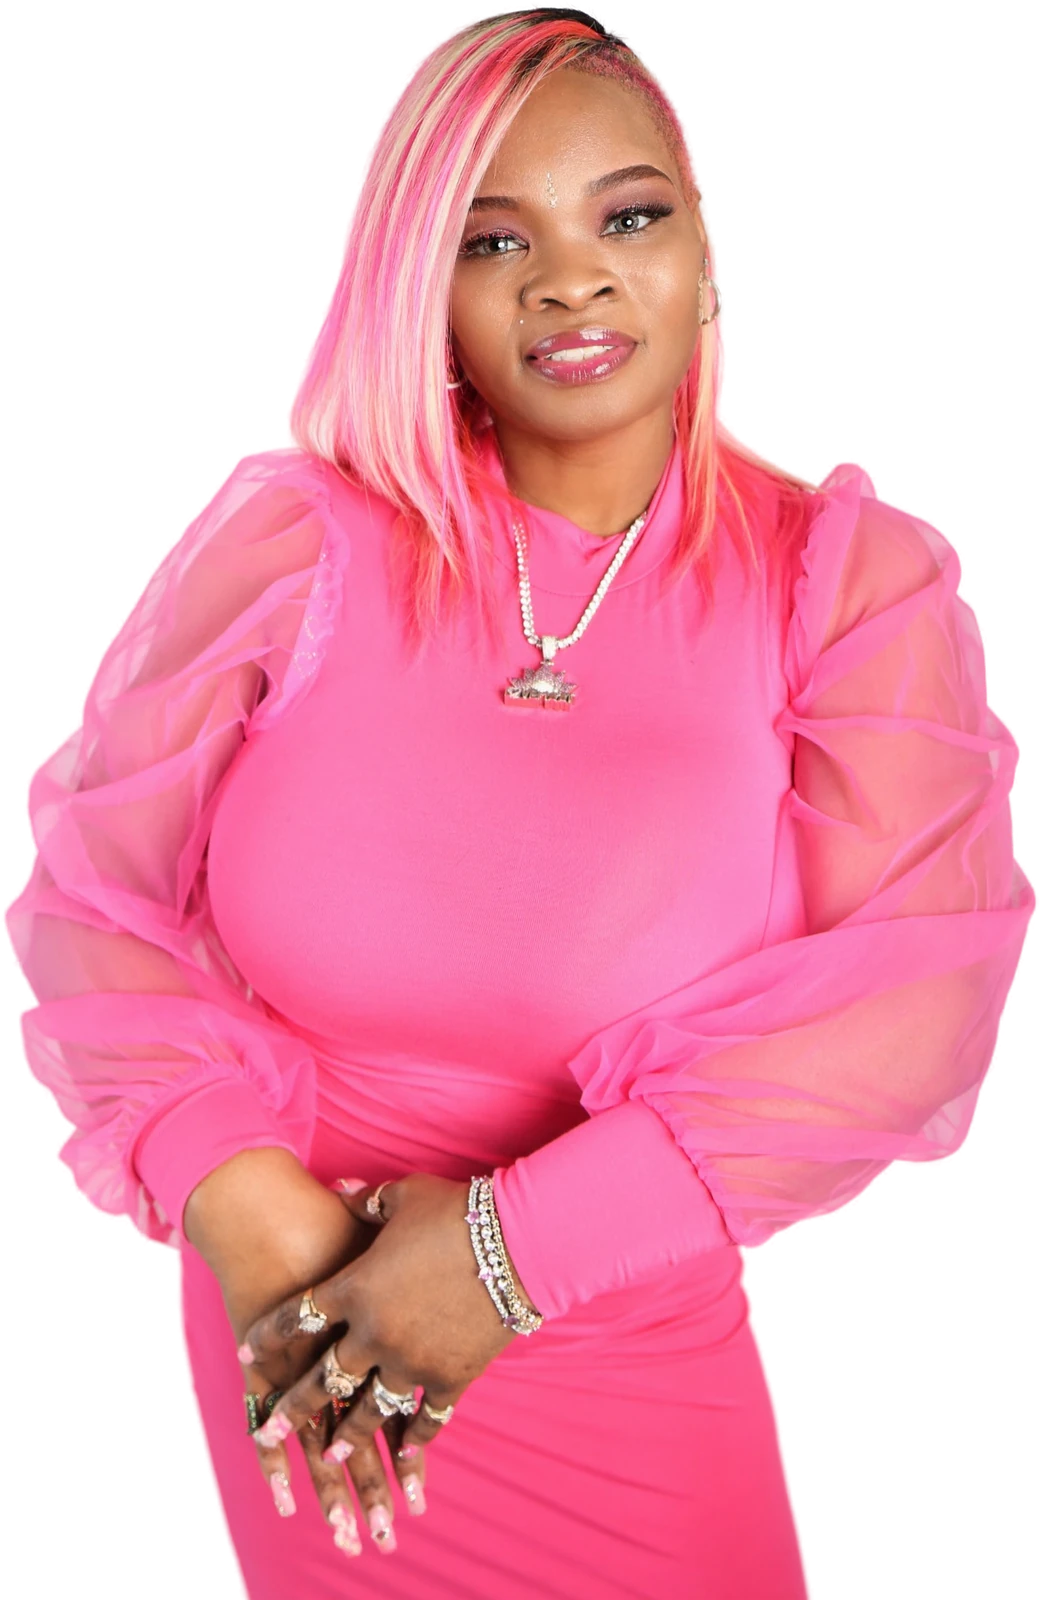
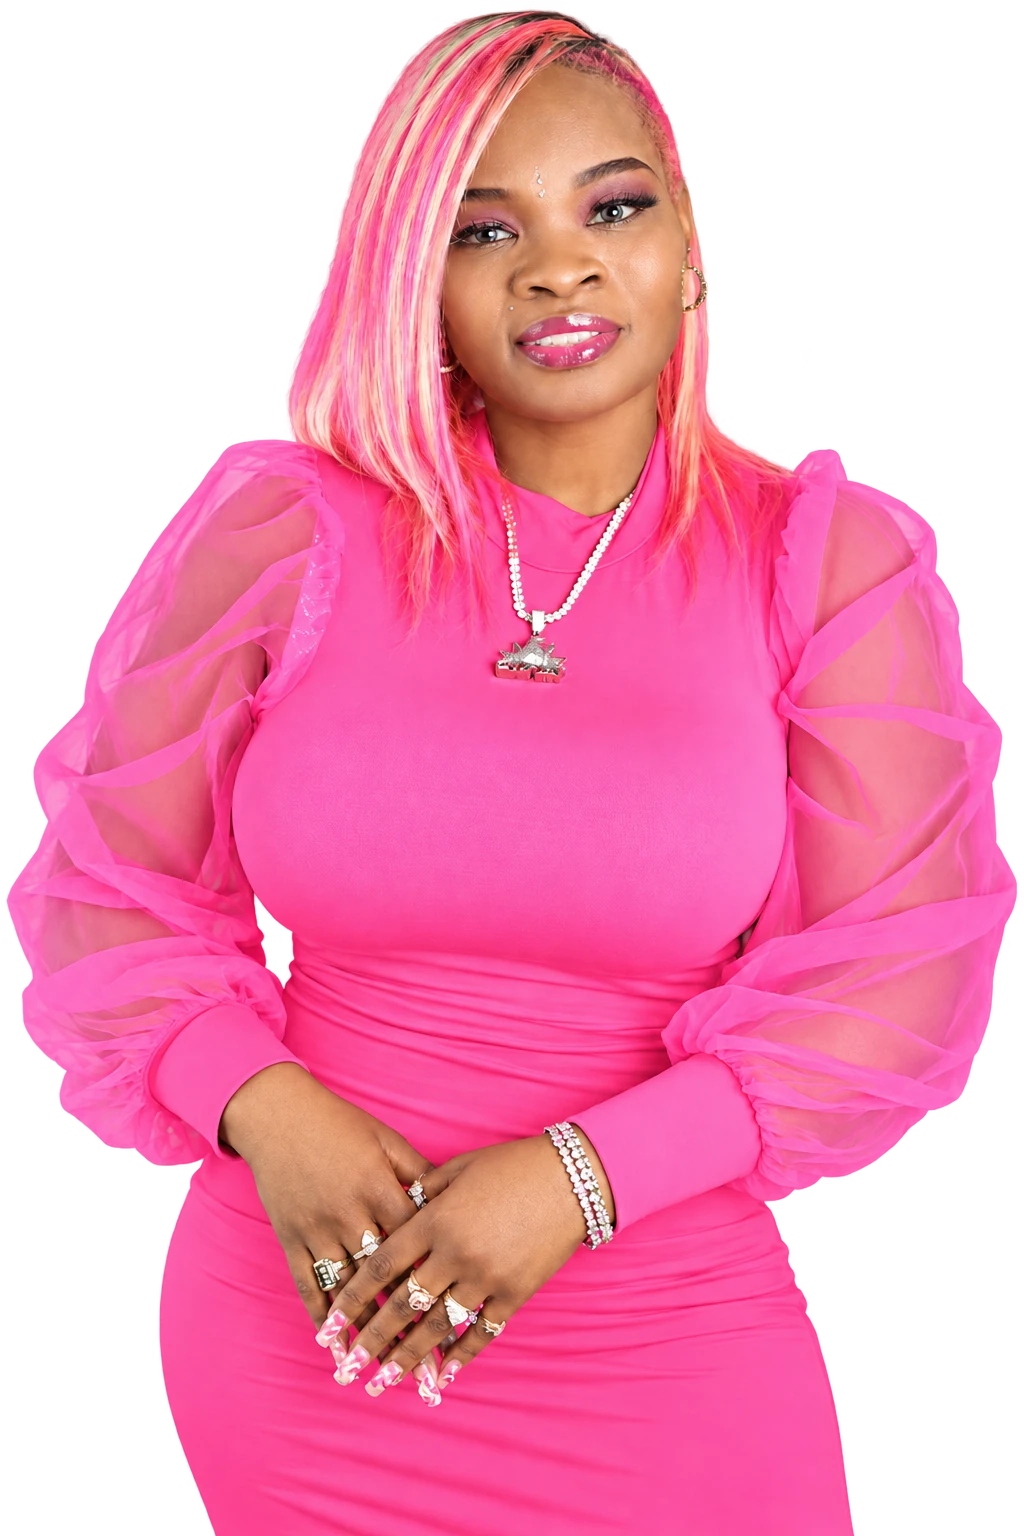
Use the client's transparent portrait, add the workshop photo
- Hero and About now use the supplied transparent PNG: a fuller crop, a
  cleaner mask, and no dark rim. Two earlier versions of the shot are kept
  in brand/ for reference.
- The pain-point row showed a second copy of the hero portrait; it now
  carries a real photo of a room of women mid-session, framed to the
  source's own landscape aspect so the group isn't cropped in half.
- Silhouette re-traced from the new alpha for the neon prototype.
- README notes to ask for a transparent PNG rather than keying one.

diff --git a/prototype-neon.html b/prototype-neon.html
@@ -1,0 +1,143 @@
+<!DOCTYPE html>
+<html lang="en">
+<head>
+<meta charset="utf-8">
+<meta name="viewport" content="width=device-width, initial-scale=1">
+<title>Neon prototypes — Love Ma'at</title>
+<link href="https://fonts.googleapis.com/css2?family=Plus+Jakarta+Sans:wght@400;600;700;800&display=swap" rel="stylesheet">
+<style>
+*{box-sizing:border-box}
+body{margin:0;font-family:"Plus Jakarta Sans",system-ui,sans-serif;background:#0d0b12;color:#fff}
+.row{display:grid;grid-template-columns:repeat(3,1fr);min-height:100vh}
+@media(max-width:1100px){.row{grid-template-columns:1fr}}
+
+.side{position:relative;overflow:hidden;isolation:isolate}
+.tag{position:absolute;top:16px;left:16px;z-index:9;font-size:.62rem;font-weight:800;
+  letter-spacing:.14em;text-transform:uppercase;padding:.45em .9em;border-radius:100px}
+
+.copy{position:absolute;left:clamp(1rem,2.5vw,1.7rem);bottom:clamp(1.2rem,5vh,2.2rem);
+  z-index:8;max-width:15rem}
+.copy h2{margin:0 0 .45rem;font-size:clamp(1.25rem,1.7vw,1.6rem);font-weight:800;
+  line-height:1.08;letter-spacing:-.03em}
+.copy p{margin:0;font-size:.78rem;line-height:1.5}
+
+.stage{position:relative;z-index:4;height:100vh;display:flex;
+  align-items:flex-end;justify-content:flex-end;padding-right:clamp(0rem,1.5vw,1.5rem)}
+/* sized in vh: a percentage height against an auto-height parent is circular */
+.shot{position:relative;display:block;height:74vh;aspect-ratio:1024/1536}
+.shot > img{display:block;height:100%;width:auto;position:relative;z-index:3}
+/* glow on a duplicate layer so we animate opacity, not filter (repaint) */
+.glow{position:absolute;inset:0;z-index:1;pointer-events:none}
+.glow img{display:block;height:100%;width:auto}
+@keyframes breathe{0%,100%{opacity:.55}50%{opacity:1}}
+
+.trace{position:absolute;inset:0;width:100%;height:100%;overflow:visible;
+  pointer-events:none;z-index:5}
+.trace path{fill:none;stroke-linecap:round;stroke-linejoin:round;
+  stroke-dasharray:150 1000;animation:travel 4.2s linear infinite}
+@keyframes travel{from{stroke-dashoffset:1150}to{stroke-dashoffset:0}}
+
+/* ---------- A: light panel, saturated streak ---------- */
+.A{background:linear-gradient(112deg,#FBD2E7 0%,#F6D3F2 38%,#E3D6FD 72%,#D6E0FE 100%)}
+.A .tag{background:#160F1D;color:#fff}
+.A .copy h2{color:#160F1D}.A .copy p{color:#4A4157}.A .copy em{color:#D4399A;font-style:normal}
+.A .glow img{filter:drop-shadow(0 0 6px #E179DC) drop-shadow(0 0 22px #B086FE)
+   drop-shadow(0 0 44px #6DA5FE);animation:breathe 5.5s ease-in-out infinite}
+.A .halo{stroke:#B086FE;stroke-width:22;opacity:.8;filter:blur(11px)}
+.A .core{stroke:#D4399A;stroke-width:5.5}
+.A .hot {stroke:#fff;stroke-width:1.5;opacity:.9}
+
+/* ---------- B: dark panel, true neon ---------- */
+.B{background:
+   radial-gradient(70% 60% at 62% 42%,#3B1E52 0%,transparent 70%),
+   linear-gradient(150deg,#1A0C24 0%,#120A1C 55%,#0B0711 100%)}
+.B .tag{background:#FE70C0;color:#160F1D}
+.B .copy h2{color:#FBF7FD}.B .copy p{color:#B9AEC8}.B .copy em{color:#FE70C0;font-style:normal}
+.B .glow img{filter:drop-shadow(0 0 3px #fff) drop-shadow(0 0 16px #FE70C0)
+   drop-shadow(0 0 46px #B086FE) drop-shadow(0 0 90px #6DA5FE);
+   animation:breathe 5.5s ease-in-out infinite}
+.B .halo{stroke:#FE70C0;stroke-width:22;opacity:.85;filter:blur(13px)}
+.B .core{stroke:#FFC7E8;stroke-width:6}
+.B .hot {stroke:#fff;stroke-width:2}
+
+/* ---------- C: light panel + local plum pool ---------- */
+.C{background:linear-gradient(112deg,#FBD2E7 0%,#F6D3F2 38%,#E3D6FD 72%,#D6E0FE 100%)}
+.C .tag{background:#160F1D;color:#fff}
+.C .copy h2{color:#160F1D}.C .copy p{color:#4A4157}.C .copy em{color:#D4399A;font-style:normal}
+/* multiply darkens the existing wash in-hue instead of pasting a grey blob on
+   top of it; the headline side stays pink because the pool is centred on her */
+.C .pool{position:absolute;z-index:2;pointer-events:none;
+  top:3%;right:-14%;width:100%;height:94%;
+  background:radial-gradient(closest-side,
+     rgba(54,20,76,.94) 0%, rgba(92,42,120,.8) 36%,
+     rgba(148,108,178,.4) 62%, rgba(190,160,210,0) 80%);
+  mix-blend-mode:multiply;filter:blur(8px)}
+.C .glow img{filter:drop-shadow(0 0 3px #fff) drop-shadow(0 0 16px #FE70C0)
+   drop-shadow(0 0 44px #B086FE) drop-shadow(0 0 80px #6DA5FE);
+   animation:breathe 5.5s ease-in-out infinite}
+.C .halo{stroke:#FE70C0;stroke-width:22;opacity:.85;filter:blur(12px)}
+.C .core{stroke:#FFD4EE;stroke-width:5.5}
+.C .hot {stroke:#fff;stroke-width:2}
+
+@media (prefers-reduced-motion:reduce){
+  .trace path,.glow img,.pool{animation:none}
+  .trace path{stroke-dasharray:none;opacity:.5}
+}
+</style>
+</head>
+<body>
+<div class="row">
+  <section class="side A">
+    <span class="tag">A &nbsp;·&nbsp; light panel</span>
+    
+    <div class="copy">
+      <h2>Real Intimacy Starts When You <em>Stop Pretending.</em></h2>
+      <p>Rim bloom reads, but the travelling segment competes with it.</p>
+    </div>
+    <div class="stage"><div class="shot">
+      <div class="glow" aria-hidden="true"><img src="assets/img/maat-portrait.webp" alt=""></div>
+      <img src="assets/img/maat-portrait.webp" alt="Dr. Love Ma'at">
+      <svg class="trace" viewBox="0 0 1024 1536" preserveAspectRatio="xMidYMid meet" aria-hidden="true">
+        <path class="halo" pathLength="1000" d="M170.8,1416.0 L158.0,1340.0 L158.8,1292.0 L167.1,1244.0 L189.6,1176.0 L200.9,1160.0 L156.0,1162.8 L132.0,1146.2 L104.0,1142.2 L59.8,1104.0 L62.9,1068.0 L35.2,1044.0 L22.7,1024.0 L20.7,992.0 L29.0,980.0 L29.9,968.0 L5.3,900.0 L46.0,820.0 L34.8,792.0 L31.6,768.0 L43.4,744.0 L80.8,704.0 L95.1,640.0 L142.8,556.0 L220.0,452.0 L244.0,439.8 L293.6,436.0 L286.7,400.0 L293.8,368.0 L325.7,280.0 L354.7,164.0 L378.5,108.0 L402.0,68.0 L433.4,36.0 L460.0,19.7 L492.0,11.3 L528.0,9.1 L568.0,14.8 L624.0,50.3 L644.9,76.0 L666.2,116.0 L705.4,284.0 L703.2,388.0 L710.8,420.0 L736.7,444.0 L788.0,468.9 L808.0,450.8 L832.0,448.8 L848.0,478.6 L900.0,499.3 L924.8,520.0 L933.0,532.0 L934.9,572.0 L956.8,612.0 L961.3,680.0 L999.4,732.0 L990.4,780.0 L994.2,840.0 L1013.4,876.0 L1014.2,896.0 L994.7,956.0 L985.3,1024.0 L961.6,1088.0 L948.0,1101.8 L928.0,1108.5 L864.0,1164.4 L844.0,1173.6 L820.0,1174.9 L780.0,1197.1 L763.7,1200.0 L785.2,1244.0 L786.2,1260.0 L804.9,1300.0 L804.6,1312.0 L824.8,1368.0"/>
+        <path class="core" pathLength="1000" d="M170.8,1416.0 L158.0,1340.0 L158.8,1292.0 L167.1,1244.0 L189.6,1176.0 L200.9,1160.0 L156.0,1162.8 L132.0,1146.2 L104.0,1142.2 L59.8,1104.0 L62.9,1068.0 L35.2,1044.0 L22.7,1024.0 L20.7,992.0 L29.0,980.0 L29.9,968.0 L5.3,900.0 L46.0,820.0 L34.8,792.0 L31.6,768.0 L43.4,744.0 L80.8,704.0 L95.1,640.0 L142.8,556.0 L220.0,452.0 L244.0,439.8 L293.6,436.0 L286.7,400.0 L293.8,368.0 L325.7,280.0 L354.7,164.0 L378.5,108.0 L402.0,68.0 L433.4,36.0 L460.0,19.7 L492.0,11.3 L528.0,9.1 L568.0,14.8 L624.0,50.3 L644.9,76.0 L666.2,116.0 L705.4,284.0 L703.2,388.0 L710.8,420.0 L736.7,444.0 L788.0,468.9 L808.0,450.8 L832.0,448.8 L848.0,478.6 L900.0,499.3 L924.8,520.0 L933.0,532.0 L934.9,572.0 L956.8,612.0 L961.3,680.0 L999.4,732.0 L990.4,780.0 L994.2,840.0 L1013.4,876.0 L1014.2,896.0 L994.7,956.0 L985.3,1024.0 L961.6,1088.0 L948.0,1101.8 L928.0,1108.5 L864.0,1164.4 L844.0,1173.6 L820.0,1174.9 L780.0,1197.1 L763.7,1200.0 L785.2,1244.0 L786.2,1260.0 L804.9,1300.0 L804.6,1312.0 L824.8,1368.0"/>
+        <path class="hot"  pathLength="1000" d="M170.8,1416.0 L158.0,1340.0 L158.8,1292.0 L167.1,1244.0 L189.6,1176.0 L200.9,1160.0 L156.0,1162.8 L132.0,1146.2 L104.0,1142.2 L59.8,1104.0 L62.9,1068.0 L35.2,1044.0 L22.7,1024.0 L20.7,992.0 L29.0,980.0 L29.9,968.0 L5.3,900.0 L46.0,820.0 L34.8,792.0 L31.6,768.0 L43.4,744.0 L80.8,704.0 L95.1,640.0 L142.8,556.0 L220.0,452.0 L244.0,439.8 L293.6,436.0 L286.7,400.0 L293.8,368.0 L325.7,280.0 L354.7,164.0 L378.5,108.0 L402.0,68.0 L433.4,36.0 L460.0,19.7 L492.0,11.3 L528.0,9.1 L568.0,14.8 L624.0,50.3 L644.9,76.0 L666.2,116.0 L705.4,284.0 L703.2,388.0 L710.8,420.0 L736.7,444.0 L788.0,468.9 L808.0,450.8 L832.0,448.8 L848.0,478.6 L900.0,499.3 L924.8,520.0 L933.0,532.0 L934.9,572.0 L956.8,612.0 L961.3,680.0 L999.4,732.0 L990.4,780.0 L994.2,840.0 L1013.4,876.0 L1014.2,896.0 L994.7,956.0 L985.3,1024.0 L961.6,1088.0 L948.0,1101.8 L928.0,1108.5 L864.0,1164.4 L844.0,1173.6 L820.0,1174.9 L780.0,1197.1 L763.7,1200.0 L785.2,1244.0 L786.2,1260.0 L804.9,1300.0 L804.6,1312.0 L824.8,1368.0"/>
+      </svg>
+    </div></div>
+  </section>
+  <section class="side B">
+    <span class="tag">B &nbsp;·&nbsp; dark panel</span>
+    
+    <div class="copy">
+      <h2>Real Intimacy Starts When You <em>Stop Pretending.</em></h2>
+      <p>Strongest motion. Costs the light, airy top of the page.</p>
+    </div>
+    <div class="stage"><div class="shot">
+      <div class="glow" aria-hidden="true"><img src="assets/img/maat-portrait.webp" alt=""></div>
+      <img src="assets/img/maat-portrait.webp" alt="Dr. Love Ma'at">
+      <svg class="trace" viewBox="0 0 1024 1536" preserveAspectRatio="xMidYMid meet" aria-hidden="true">
+        <path class="halo" pathLength="1000" d="M170.8,1416.0 L158.0,1340.0 L158.8,1292.0 L167.1,1244.0 L189.6,1176.0 L200.9,1160.0 L156.0,1162.8 L132.0,1146.2 L104.0,1142.2 L59.8,1104.0 L62.9,1068.0 L35.2,1044.0 L22.7,1024.0 L20.7,992.0 L29.0,980.0 L29.9,968.0 L5.3,900.0 L46.0,820.0 L34.8,792.0 L31.6,768.0 L43.4,744.0 L80.8,704.0 L95.1,640.0 L142.8,556.0 L220.0,452.0 L244.0,439.8 L293.6,436.0 L286.7,400.0 L293.8,368.0 L325.7,280.0 L354.7,164.0 L378.5,108.0 L402.0,68.0 L433.4,36.0 L460.0,19.7 L492.0,11.3 L528.0,9.1 L568.0,14.8 L624.0,50.3 L644.9,76.0 L666.2,116.0 L705.4,284.0 L703.2,388.0 L710.8,420.0 L736.7,444.0 L788.0,468.9 L808.0,450.8 L832.0,448.8 L848.0,478.6 L900.0,499.3 L924.8,520.0 L933.0,532.0 L934.9,572.0 L956.8,612.0 L961.3,680.0 L999.4,732.0 L990.4,780.0 L994.2,840.0 L1013.4,876.0 L1014.2,896.0 L994.7,956.0 L985.3,1024.0 L961.6,1088.0 L948.0,1101.8 L928.0,1108.5 L864.0,1164.4 L844.0,1173.6 L820.0,1174.9 L780.0,1197.1 L763.7,1200.0 L785.2,1244.0 L786.2,1260.0 L804.9,1300.0 L804.6,1312.0 L824.8,1368.0"/>
+        <path class="core" pathLength="1000" d="M170.8,1416.0 L158.0,1340.0 L158.8,1292.0 L167.1,1244.0 L189.6,1176.0 L200.9,1160.0 L156.0,1162.8 L132.0,1146.2 L104.0,1142.2 L59.8,1104.0 L62.9,1068.0 L35.2,1044.0 L22.7,1024.0 L20.7,992.0 L29.0,980.0 L29.9,968.0 L5.3,900.0 L46.0,820.0 L34.8,792.0 L31.6,768.0 L43.4,744.0 L80.8,704.0 L95.1,640.0 L142.8,556.0 L220.0,452.0 L244.0,439.8 L293.6,436.0 L286.7,400.0 L293.8,368.0 L325.7,280.0 L354.7,164.0 L378.5,108.0 L402.0,68.0 L433.4,36.0 L460.0,19.7 L492.0,11.3 L528.0,9.1 L568.0,14.8 L624.0,50.3 L644.9,76.0 L666.2,116.0 L705.4,284.0 L703.2,388.0 L710.8,420.0 L736.7,444.0 L788.0,468.9 L808.0,450.8 L832.0,448.8 L848.0,478.6 L900.0,499.3 L924.8,520.0 L933.0,532.0 L934.9,572.0 L956.8,612.0 L961.3,680.0 L999.4,732.0 L990.4,780.0 L994.2,840.0 L1013.4,876.0 L1014.2,896.0 L994.7,956.0 L985.3,1024.0 L961.6,1088.0 L948.0,1101.8 L928.0,1108.5 L864.0,1164.4 L844.0,1173.6 L820.0,1174.9 L780.0,1197.1 L763.7,1200.0 L785.2,1244.0 L786.2,1260.0 L804.9,1300.0 L804.6,1312.0 L824.8,1368.0"/>
+        <path class="hot"  pathLength="1000" d="M170.8,1416.0 L158.0,1340.0 L158.8,1292.0 L167.1,1244.0 L189.6,1176.0 L200.9,1160.0 L156.0,1162.8 L132.0,1146.2 L104.0,1142.2 L59.8,1104.0 L62.9,1068.0 L35.2,1044.0 L22.7,1024.0 L20.7,992.0 L29.0,980.0 L29.9,968.0 L5.3,900.0 L46.0,820.0 L34.8,792.0 L31.6,768.0 L43.4,744.0 L80.8,704.0 L95.1,640.0 L142.8,556.0 L220.0,452.0 L244.0,439.8 L293.6,436.0 L286.7,400.0 L293.8,368.0 L325.7,280.0 L354.7,164.0 L378.5,108.0 L402.0,68.0 L433.4,36.0 L460.0,19.7 L492.0,11.3 L528.0,9.1 L568.0,14.8 L624.0,50.3 L644.9,76.0 L666.2,116.0 L705.4,284.0 L703.2,388.0 L710.8,420.0 L736.7,444.0 L788.0,468.9 L808.0,450.8 L832.0,448.8 L848.0,478.6 L900.0,499.3 L924.8,520.0 L933.0,532.0 L934.9,572.0 L956.8,612.0 L961.3,680.0 L999.4,732.0 L990.4,780.0 L994.2,840.0 L1013.4,876.0 L1014.2,896.0 L994.7,956.0 L985.3,1024.0 L961.6,1088.0 L948.0,1101.8 L928.0,1108.5 L864.0,1164.4 L844.0,1173.6 L820.0,1174.9 L780.0,1197.1 L763.7,1200.0 L785.2,1244.0 L786.2,1260.0 L804.9,1300.0 L804.6,1312.0 L824.8,1368.0"/>
+      </svg>
+    </div></div>
+  </section>
+  <section class="side C">
+    <span class="tag">C &nbsp;·&nbsp; light panel + plum pool</span>
+    <div class="pool" aria-hidden="true"></div>
+    <div class="copy">
+      <h2>Real Intimacy Starts When You <em>Stop Pretending.</em></h2>
+      <p>Pink hero kept. She stands in a pool of deeper plum so the neon has local contrast.</p>
+    </div>
+    <div class="stage"><div class="shot">
+      <div class="glow" aria-hidden="true"><img src="assets/img/maat-portrait.webp" alt=""></div>
+      <img src="assets/img/maat-portrait.webp" alt="Dr. Love Ma'at">
+      <svg class="trace" viewBox="0 0 1024 1536" preserveAspectRatio="xMidYMid meet" aria-hidden="true">
+        <path class="halo" pathLength="1000" d="M170.8,1416.0 L158.0,1340.0 L158.8,1292.0 L167.1,1244.0 L189.6,1176.0 L200.9,1160.0 L156.0,1162.8 L132.0,1146.2 L104.0,1142.2 L59.8,1104.0 L62.9,1068.0 L35.2,1044.0 L22.7,1024.0 L20.7,992.0 L29.0,980.0 L29.9,968.0 L5.3,900.0 L46.0,820.0 L34.8,792.0 L31.6,768.0 L43.4,744.0 L80.8,704.0 L95.1,640.0 L142.8,556.0 L220.0,452.0 L244.0,439.8 L293.6,436.0 L286.7,400.0 L293.8,368.0 L325.7,280.0 L354.7,164.0 L378.5,108.0 L402.0,68.0 L433.4,36.0 L460.0,19.7 L492.0,11.3 L528.0,9.1 L568.0,14.8 L624.0,50.3 L644.9,76.0 L666.2,116.0 L705.4,284.0 L703.2,388.0 L710.8,420.0 L736.7,444.0 L788.0,468.9 L808.0,450.8 L832.0,448.8 L848.0,478.6 L900.0,499.3 L924.8,520.0 L933.0,532.0 L934.9,572.0 L956.8,612.0 L961.3,680.0 L999.4,732.0 L990.4,780.0 L994.2,840.0 L1013.4,876.0 L1014.2,896.0 L994.7,956.0 L985.3,1024.0 L961.6,1088.0 L948.0,1101.8 L928.0,1108.5 L864.0,1164.4 L844.0,1173.6 L820.0,1174.9 L780.0,1197.1 L763.7,1200.0 L785.2,1244.0 L786.2,1260.0 L804.9,1300.0 L804.6,1312.0 L824.8,1368.0"/>
+        <path class="core" pathLength="1000" d="M170.8,1416.0 L158.0,1340.0 L158.8,1292.0 L167.1,1244.0 L189.6,1176.0 L200.9,1160.0 L156.0,1162.8 L132.0,1146.2 L104.0,1142.2 L59.8,1104.0 L62.9,1068.0 L35.2,1044.0 L22.7,1024.0 L20.7,992.0 L29.0,980.0 L29.9,968.0 L5.3,900.0 L46.0,820.0 L34.8,792.0 L31.6,768.0 L43.4,744.0 L80.8,704.0 L95.1,640.0 L142.8,556.0 L220.0,452.0 L244.0,439.8 L293.6,436.0 L286.7,400.0 L293.8,368.0 L325.7,280.0 L354.7,164.0 L378.5,108.0 L402.0,68.0 L433.4,36.0 L460.0,19.7 L492.0,11.3 L528.0,9.1 L568.0,14.8 L624.0,50.3 L644.9,76.0 L666.2,116.0 L705.4,284.0 L703.2,388.0 L710.8,420.0 L736.7,444.0 L788.0,468.9 L808.0,450.8 L832.0,448.8 L848.0,478.6 L900.0,499.3 L924.8,520.0 L933.0,532.0 L934.9,572.0 L956.8,612.0 L961.3,680.0 L999.4,732.0 L990.4,780.0 L994.2,840.0 L1013.4,876.0 L1014.2,896.0 L994.7,956.0 L985.3,1024.0 L961.6,1088.0 L948.0,1101.8 L928.0,1108.5 L864.0,1164.4 L844.0,1173.6 L820.0,1174.9 L780.0,1197.1 L763.7,1200.0 L785.2,1244.0 L786.2,1260.0 L804.9,1300.0 L804.6,1312.0 L824.8,1368.0"/>
+        <path class="hot"  pathLength="1000" d="M170.8,1416.0 L158.0,1340.0 L158.8,1292.0 L167.1,1244.0 L189.6,1176.0 L200.9,1160.0 L156.0,1162.8 L132.0,1146.2 L104.0,1142.2 L59.8,1104.0 L62.9,1068.0 L35.2,1044.0 L22.7,1024.0 L20.7,992.0 L29.0,980.0 L29.9,968.0 L5.3,900.0 L46.0,820.0 L34.8,792.0 L31.6,768.0 L43.4,744.0 L80.8,704.0 L95.1,640.0 L142.8,556.0 L220.0,452.0 L244.0,439.8 L293.6,436.0 L286.7,400.0 L293.8,368.0 L325.7,280.0 L354.7,164.0 L378.5,108.0 L402.0,68.0 L433.4,36.0 L460.0,19.7 L492.0,11.3 L528.0,9.1 L568.0,14.8 L624.0,50.3 L644.9,76.0 L666.2,116.0 L705.4,284.0 L703.2,388.0 L710.8,420.0 L736.7,444.0 L788.0,468.9 L808.0,450.8 L832.0,448.8 L848.0,478.6 L900.0,499.3 L924.8,520.0 L933.0,532.0 L934.9,572.0 L956.8,612.0 L961.3,680.0 L999.4,732.0 L990.4,780.0 L994.2,840.0 L1013.4,876.0 L1014.2,896.0 L994.7,956.0 L985.3,1024.0 L961.6,1088.0 L948.0,1101.8 L928.0,1108.5 L864.0,1164.4 L844.0,1173.6 L820.0,1174.9 L780.0,1197.1 L763.7,1200.0 L785.2,1244.0 L786.2,1260.0 L804.9,1300.0 L804.6,1312.0 L824.8,1368.0"/>
+      </svg>
+    </div></div>
+  </section>
+</div>
+</body>
+</html>

diff --git a/index.html b/index.html
@@ -90,7 +90,7 @@
       </div>
 
       <figure class="hero__portrait">
-        <img src="assets/img/maat-portrait.webp" alt="Dr. Love Ma'at" width="1040" height="1600" fetchpriority="high">
+        <img src="assets/img/maat-portrait.webp" alt="Dr. Love Ma'at" width="1024" height="1536" fetchpriority="high">
       </figure>
     </div>
 
@@ -147,7 +147,9 @@
     </div>
 
     <figure class="pains__photo reveal">
-      <img src="assets/img/maat-portrait.webp" alt="Dr. Love Ma'at" width="1040" height="1600" loading="lazy">
+      <img src="assets/img/the-room.webp" width="660" height="475" loading="lazy"
+           alt="Dr. Love Ma'at with a room of women at one of her workshops">
+      <figcaption>The room, mid-session.</figcaption>
     </figure>
 
     <ul class="pains__list reveal">
@@ -236,7 +238,7 @@
 <section class="section" id="about">
   <div class="wrap about">
     <figure class="about__media reveal">
-      <img src="assets/img/maat-portrait.webp" alt="Dr. Love Ma'at" width="1040" height="1600" loading="lazy">
+      <img src="assets/img/maat-portrait.webp" alt="Dr. Love Ma'at" width="1024" height="1536" loading="lazy">
       <figcaption class="badge">
         <b>The GLOAT</b>
         <i>Greatest Lover of All Time</i>

diff --git a/assets/css/styles.css b/assets/css/styles.css
@@ -247,11 +247,12 @@ p:last-child{margin-bottom:0}
   border-radius:50%;background:var(--ink);color:#fff;margin-top:.1rem}
 .checks__dot svg{width:.85rem;height:.85rem}
 
-/* cut-out on a brand wash — the grey studio backdrop read as flat here */
-.pains__photo{margin:0;border-radius:var(--r);overflow:hidden;aspect-ratio:4/5;
-  background:var(--panel);display:flex;align-items:flex-end;justify-content:center;
-  box-shadow:0 20px 44px -26px rgba(22,15,29,.5)}
-.pains__photo img{width:96%;height:96%;object-fit:contain;object-position:50% 100%}
+/* a real photo of the room, framed to the source's own landscape aspect so
+   the group isn't cropped in half */
+.pains__photo{margin:0;border-radius:var(--r);overflow:hidden;
+  box-shadow:0 18px 40px -24px rgba(22,15,29,.5)}
+.pains__photo img{width:100%;aspect-ratio:660/475;object-fit:cover;display:block}
+.pains__photo figcaption{padding:.7rem .9rem 0;font-size:.78rem;color:var(--dim)}
 
 .pains__list{list-style:none;margin:0;padding:0;display:flex;flex-direction:column;
   gap:1.9rem}

diff --git a/README.md b/README.md
@@ -38,9 +38,15 @@ brand/                  original source files (masters, not served)
 
 | Shipped file | Derived from | How |
 |---|---|---|
-| `maat-portrait.webp` | `portrait-original.jpeg` | background removed (`rembg`), trimmed, resized |
+| `maat-portrait.webp` | `portrait-transparent-original.png` | client-supplied transparent PNG, trimmed to bbox and encoded |
+| `the-room.webp` | `the-room-original.png` | workshop group photo, encoded |
 | `logo-mark.png` / `logo-word.png` / `logo-full.png` | `logo-original.jpg` | white background keyed out and un-matted to transparency |
-| `portrait-cutout.png` (in `brand/`) | — | full-resolution cutout master, kept but not shipped |
+| `silhouette-path.txt` | `maat-portrait.webp` | her outline traced from the alpha channel, simplified to ~75 points, bottom crop line removed so it strokes as an open path |
+
+`brand/` also holds `portrait-on-black.png` and `portrait-original.jpeg`, two earlier
+versions of the same shot. **Always ask the client for a transparent PNG rather than
+keying one** — un-matting an over-black composite leaves a dark rim that is fiddly to
+remove and never as clean as a proper cutout.
 
 ---
 
